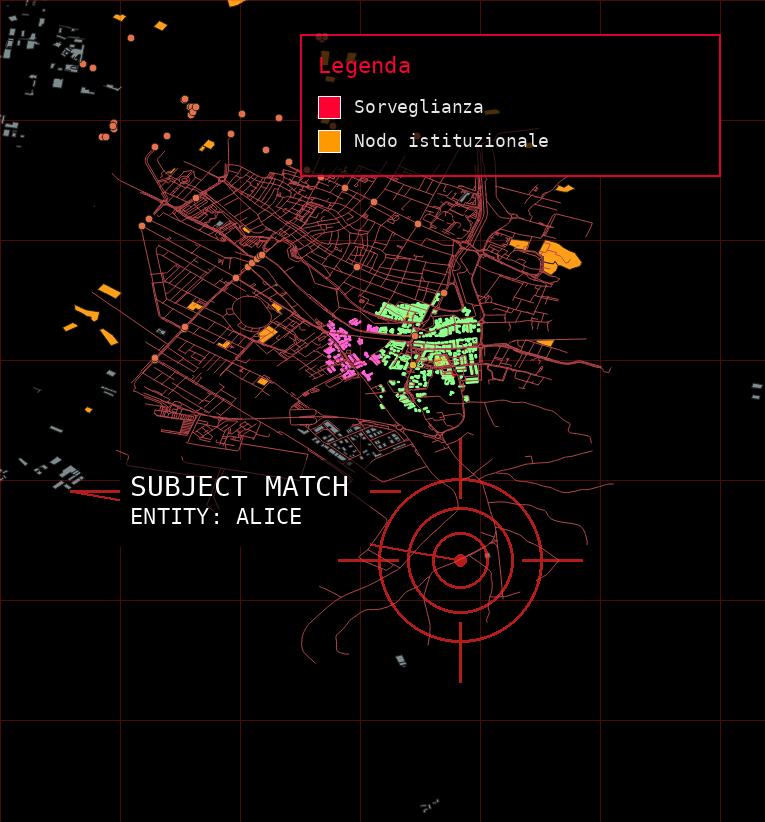
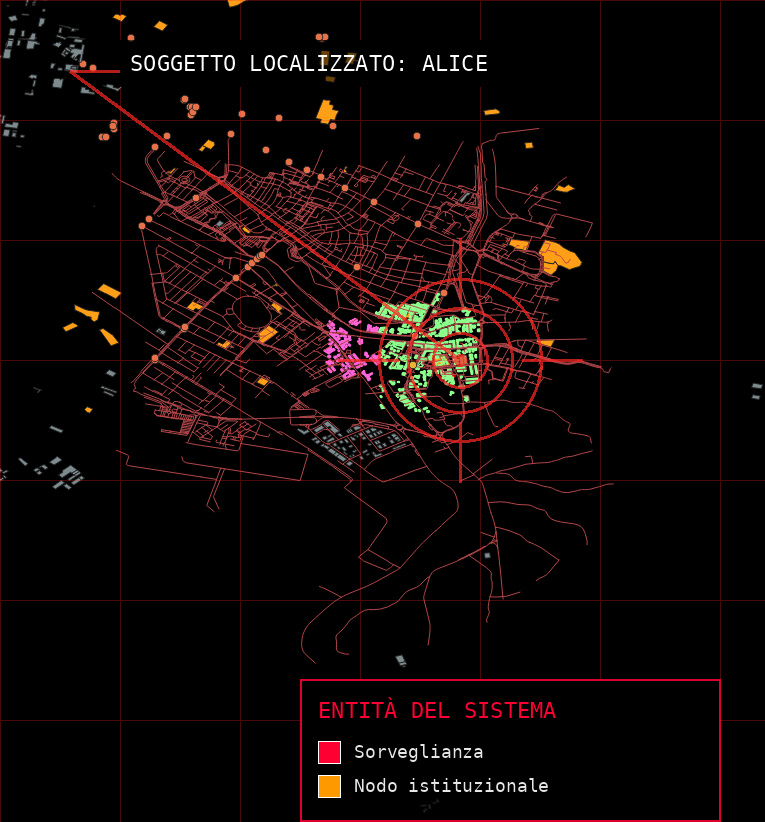
sd

diff --git a/code/overlay_text.py b/code/overlay_text.py
@@ -21,7 +21,7 @@ parser.add_argument("--signal-y", type=int, default=930)
 parser.add_argument("--legend", action="store_true")
 parser.add_argument("--legend-cx", type=int, default=None)
 parser.add_argument("--legend-cy", type=int, default=None)
-parser.add_argument("--legend-title", default="Legenda")
+parser.add_argument("--legend-title", default="ENTITÀ DEL SISTEMA")
 parser.add_argument("--legend-item", action="append", default=[])
 
 args = parser.parse_args()